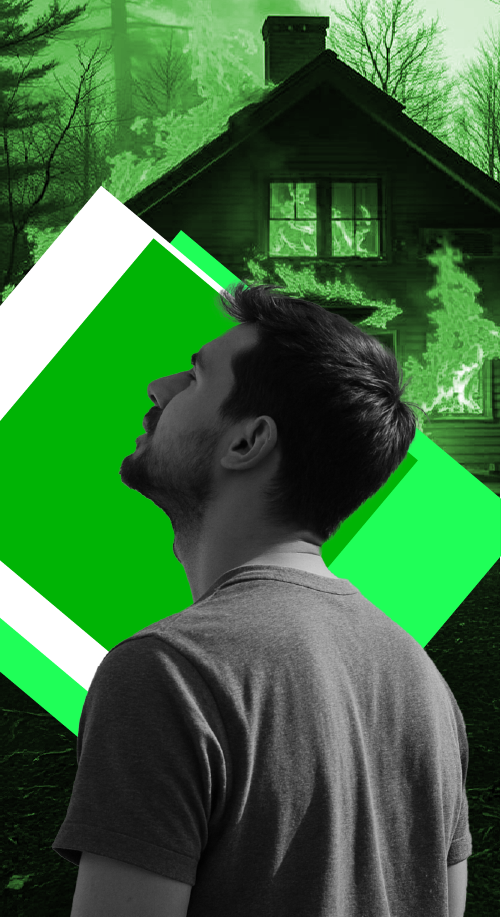
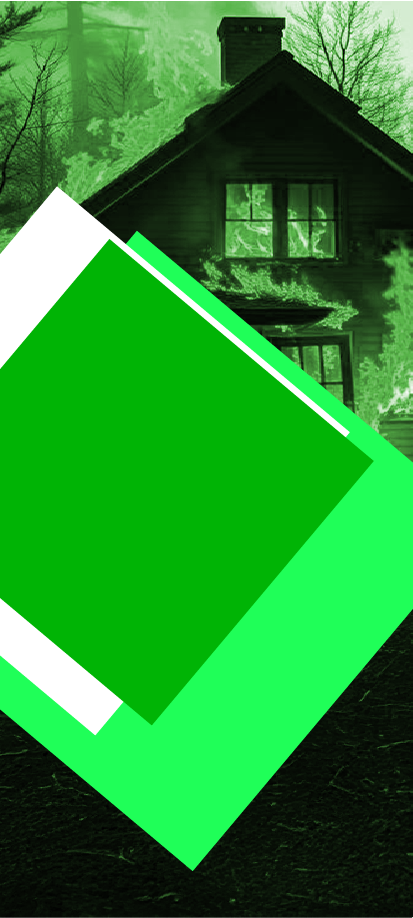
bilder ersetzt nur hintergrund fpr walk the dog und let x =x

diff --git a/visual novel/Walk_The_Dog.js b/visual novel/Walk_The_Dog.js
@@ -10,6 +10,7 @@ const scenes = {
     },
     Care: {
       audio: "/visual%20novel/audio/Walk_The_Dog/I_on_Fire.mp3",
+      image: "/visual%20novel/images/Walk_The_Dog/Dog_003.png",
       choices: [
         { text: "Ok, so?", nextScene: "Ok" },
         { text: "I'm Sorry...", nextScene: "Sorry" }
@@ -17,6 +18,7 @@ const scenes = {
     },
     Cool: {
       audio: "/visual%20novel/audio/Walk_The_Dog/Dog_Cinema_001.mp3",
+      image: "/visual%20novel/images/Walk_The_Dog/Dog_001.png",
       choices: [
         { text: "Who cares.", nextScene: "Ok" },
         { text: "I love Dogs too!", nextScene: "Sorry" }
@@ -24,12 +26,14 @@ const scenes = {
     },
     Ok: {
       audio: "/visual%20novel/audio/Walk_The_Dog/I_feel_so_bad.mp3",
+      image: "/visual%20novel/images/Walk_The_Dog/Dog_003.png",
       choices: [
         { text: "...", nextScene: "link", isLink: true, href: "Phone_2.html" },
       ]
     },
     Sorry: {
       audio: "/visual%20novel/audio/Walk_The_Dog/I_walk_the_dog.mp3",
+      image: "/visual%20novel/images/Walk_The_Dog/Dog_002.png",
       choices: [{ text: "...", nextScene: "link", isLink: true, href: "Phone_2.html" },]
     },
 

diff --git a/visual novel/Walk_The_Dog.css b/visual novel/Walk_The_Dog.css
@@ -13,7 +13,20 @@
 }
 
 #scene-image2 {
-  background-image: url("Walk_The_Dog.png");
+  background-image: url("Dog_002.png");
+  background-size: cover; /* passt das Bild an */
+  background-position: center;
+  background-repeat: no-repeat;
+  position: fixed; /* Immer am gleichen Ort im Viewport */
+  top: 0;
+  left: 0;
+  width: 100%;
+  height: 100%;
+  z-index: -1;
+}
+
+#scene-image3 {
+  background-image: url("Dog_003.png");
   background-size: cover; /* passt das Bild an */
   background-position: center;
   background-repeat: no-repeat;

diff --git a/visual novel/Let_X=X.css b/visual novel/Let_X=X.css
@@ -1,6 +1,6 @@
 
 #scene-image {
-    background-image: url("LetX=X_002.png");
+    background-image: url("LetX=X_001.png");
     background-size: cover; /* passt das Bild an */
     background-position: center;
     background-repeat: no-repeat;
@@ -13,7 +13,7 @@
   }
 
   #scene-image2 {
-    background-image: url("LetX=X_001.png");
+    background-image: url("LetX=X_002.png");
     background-size: cover; /* passt das Bild an */
     background-position: center;
     background-repeat: no-repeat;

diff --git a/visual novel/Let_X=X.js b/visual novel/Let_X=X.js
@@ -65,7 +65,7 @@ const scenes = {
     },
     time: {
       audio: "/visual%20novel/audio/Let_X=X/burning_building_ganz.mp3",
-      image: "/visual%20novel/images/Let_X=X/LetX=X_002.png",
+      image: "/visual%20novel/images/Let_X=X/LetX=X_003.png",
         choices: [
             { text: "...", nextScene: "link", isLink: true, href: "phone5.html" },
         ]

diff --git a/visual novel/Walk_The_Dog.html b/visual novel/Walk_The_Dog.html
@@ -12,6 +12,8 @@
 <body>
     <div id="game-container">
         <div id="scene-image"></div>
+        <div id="scene-image2"></div>
+        <div id="scene-image3"></div>
         <div id="text-box">
           <p id="dialogue"></p>
         </div>
